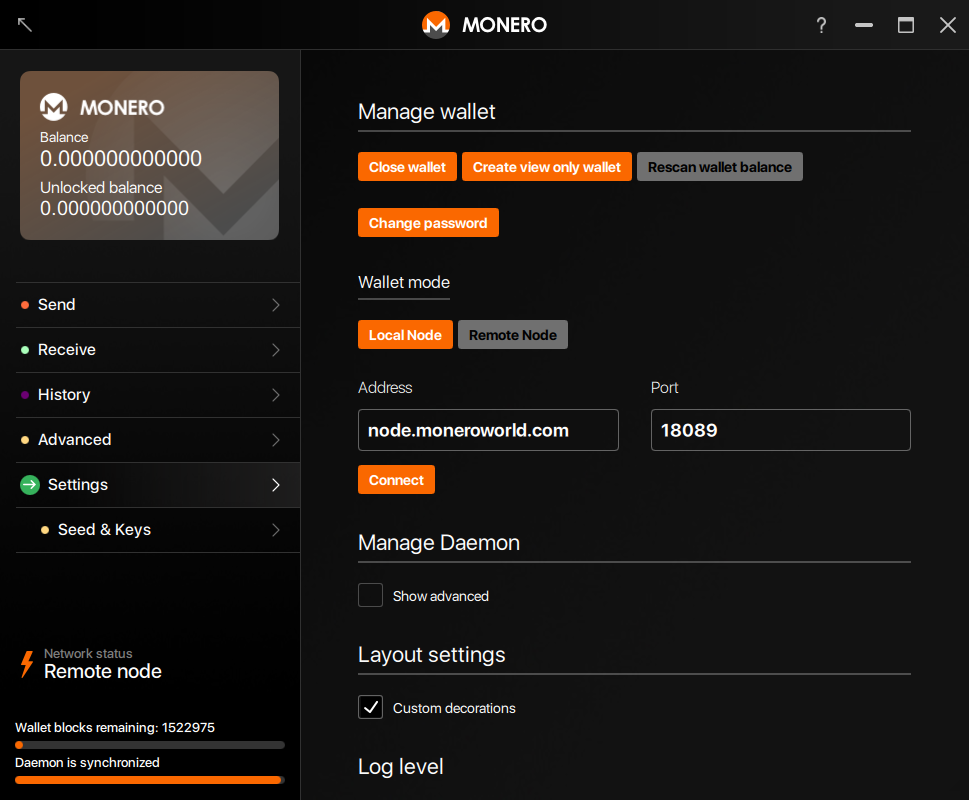
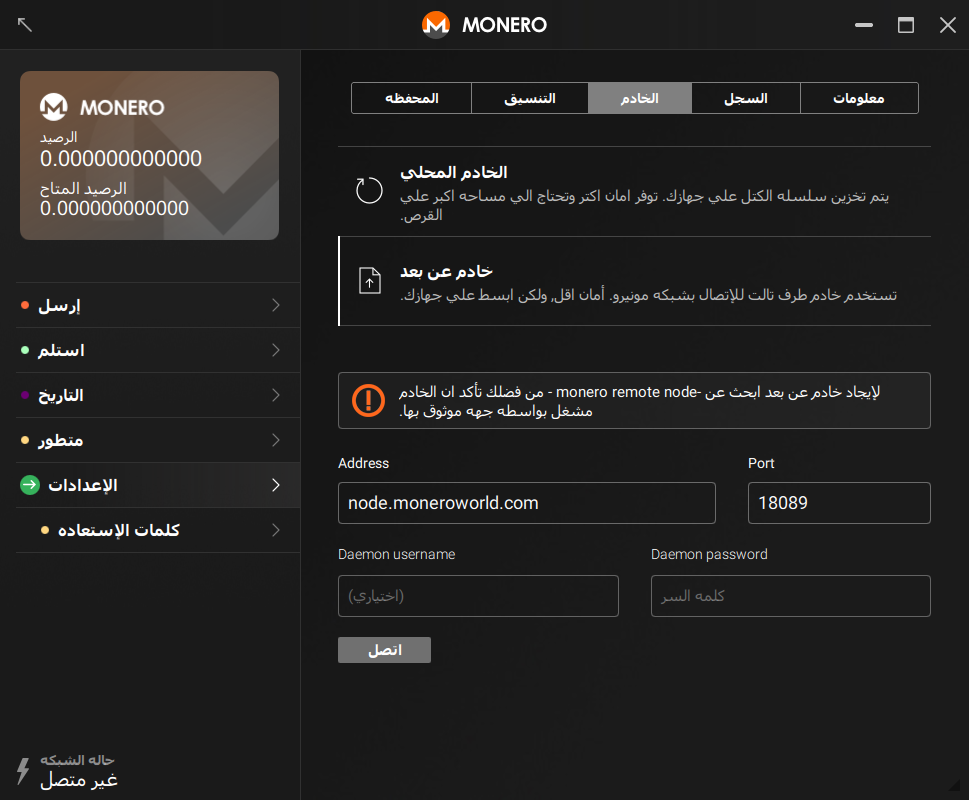
Update user guide remote node to 0.13.0

diff --git a/_i18n/fr/resources/user-guides/remote_node_gui.md b/_i18n/fr/resources/user-guides/remote_node_gui.md
@@ -1,14 +1,10 @@
-{% assign version = '1.1.0' | split: '.' %}
+{% assign version = '1.2.0' | split: '.' %}
 {% include disclaimer.html translated="true" version=page.version %}
 ## Trouver un nœud
 Commencez par le commencement, vous devez trouver un nœud auquel vous connecter ! [moneroworld.com](https://moneroworld.com/#nodes) propose quelques bonnes ressources pour trouver
 des nœuds. L'une des méthodes les plus simple serait d'utiliser un nœud appartenant à moneroworld, mais ils propose également un outil pour trouver des nœuds aléatoires.
 
 ## Connecter le portefeuille GUI au nœud
-Après avoir saisit votre mot de passe dans votre portefeuille, vous verrez une notification que vous donnera la possibilité de configurer des "Paramètres personnalisés". Cliquez dessus.
-Vous serez alors envoyé à la page "Paramètres" de la GUI. A ce moment là vous devriez voir deux champs texte à droite d'un libellé qui indique "Adresse du démon". Dans le premier champ texte
-(celui de gauche) saisissez l'adresse du nœud auquel vous voulez vous connecter. Cette adresse pourrait ressembler à `node.moneroworld.com` où à une bonne vielle adresse IP. Le champ texte
-plus petit à droite est celui dans lequel vous saisissez le port du nœud. Le port par défaut est `18081` mais si vous utilisez un nœud aléatoire, le port qu'il utilise peut varier.
-node?moneroworld.com utilise le port 18089.
+Après avoir saisit votre mot de passe dans votre portefeuille, vous verrez une notification que vous donnera la possibilité de configurer des "Paramètres personnalisés". Cliquez dessus. Vous serez alors envoyé à la page "Réglages > Nœud" de la GUI. A ce moment là vous devriez voir quatre champs texte libellés "Address", "Port", "Daemon username" et "Daemon password". Saisissez l'adresse du nœud auquel vous voulez vous connecter. Cette adresse pourrait ressembler à `node.moneroworld.com` où à une bonne vielle adresse IP. Puis saisissez le port du nœud. Le port par défaut est `18081` mais si vous utilisez un nœud aléatoire, le port qu'il utilise peut varier. node.moneroworld.com utilise le port 18089. Au besoin, saisissez le nom d'utilisateur et le mot de passe si votre nœud distant le nécessite.
 ### Votre écran devrait ressembler un peu à cela
 <img src="png/remote_node/remote-node-screenshot.png" width="(600)">

diff --git a/_i18n/it/resources/user-guides/remote_node_gui.md b/_i18n/it/resources/user-guides/remote_node_gui.md
@@ -1,4 +1,4 @@
-{% assign version = '1.1.0' | split: '.' %}
+{% assign version = '1.2.0' | split: '.' %}
 {% include disclaimer.html translated="false" version=page.version %}
 ## Finding a node
 First things first, you need to find a node to connect to! [moneroworld.com](https://moneroworld.com/#nodes) has some great resources for finding nodes. One of the easiest methods
@@ -6,7 +6,6 @@ would be to use a node run by moneroworld, but they have a tool for finding rand
 
 ## Connecting to the node from the GUI wallet
 After you enter your password for your wallet, you will see a pop up that will give you the option to "use custom settings". Click on it. You will then be
-sent to the "Settings" page in the GUI. At this point you should see two text boxes to the right of a label that says "Daemon address". In the first box (the on to the left) you need to enter the address of the node that you want to
-connect to. This address might look like `node.moneroworld.com` or it could look like any old ip address. The smaller box to the right is where you enter the node's port. The default port is `18081` but if you are using a random node the port that is used will vary. The port for node.moneroworld.com uses 18089.
+sent to the "Impostazioni > Nodo" page in the GUI. At this point you could choose 'Remote Node' see four text boxes labeled "Address", "Port", "Daemon username" and "Daemon password". Fill the address of the node that you want to connect to. This address might look like `node.moneroworld.com` or it could look like any old ip address. Then fill the "Port" box with the node's port. The default port is `18081` but if you are using a random node the port that is used will vary. The port for node.moneroworld.com uses 18089. Optionnaly, fill the username and password if your remote note requires them.
 ### Your screen should look a bit like this
 <img src="png/remote_node/remote-node-screenshot.png" width="(600)">

diff --git a/_i18n/en/resources/user-guides/remote_node_gui.md b/_i18n/en/resources/user-guides/remote_node_gui.md
@@ -1,4 +1,4 @@
-{% assign version = '1.1.0' | split: '.' %}
+{% assign version = '1.2.0' | split: '.' %}
 {% include disclaimer.html translated="true" version=page.version %}
 ## Finding a node
 First things first, you need to find a node to connect to! [moneroworld.com](https://moneroworld.com/#nodes) has some great resources for finding nodes. One of the easiest methods
@@ -6,7 +6,6 @@ would be to use a node run by moneroworld, but they have a tool for finding rand
 
 ## Connecting to the node from the GUI wallet
 After you enter your password for your wallet, you will see a pop up that will give you the option to "use custom settings". Click on it. You will then be
-sent to the "Settings" page in the GUI. At this point you should see two text boxes to the right of a label that says "Daemon address". In the first box (the one to the left) you need to enter the address of the node that you want to
-connect to. This address might look like `node.moneroworld.com` or it could look like any old ip address. The smaller box to the right is where you enter the node's port. The default port is `18081` but if you are using a random node the port that is used will vary. The port for node.moneroworld.com uses 18089.
+sent to the "Settings > Node" page in the GUI. At this point you could choose 'Remote Node' see four text boxes labeled "Address", "Port", "Daemon username" and "Daemon password". Fill the address of the node that you want to connect to. This address might look like `node.moneroworld.com` or it could look like any old ip address. Then fill the "Port" box with the node's port. The default port is `18081` but if you are using a random node the port that is used will vary. The port for node.moneroworld.com uses 18089. Optionnaly, fill the username and password if your remote note requires them.
 ### Your screen should look a bit like this
 <img src="png/remote_node/remote-node-screenshot.png" width="(600)">

diff --git a/resources/user-guides/remote_node_gui.md b/resources/user-guides/remote_node_gui.md
@@ -4,7 +4,7 @@ title: How to use a remote node in the GUI wallet
 permalink: /resources/user-guides/remote_node_gui.html
 mainVersion:
   - "1"
-  - "1"
+  - "2"
   - "0"
 ---
 
